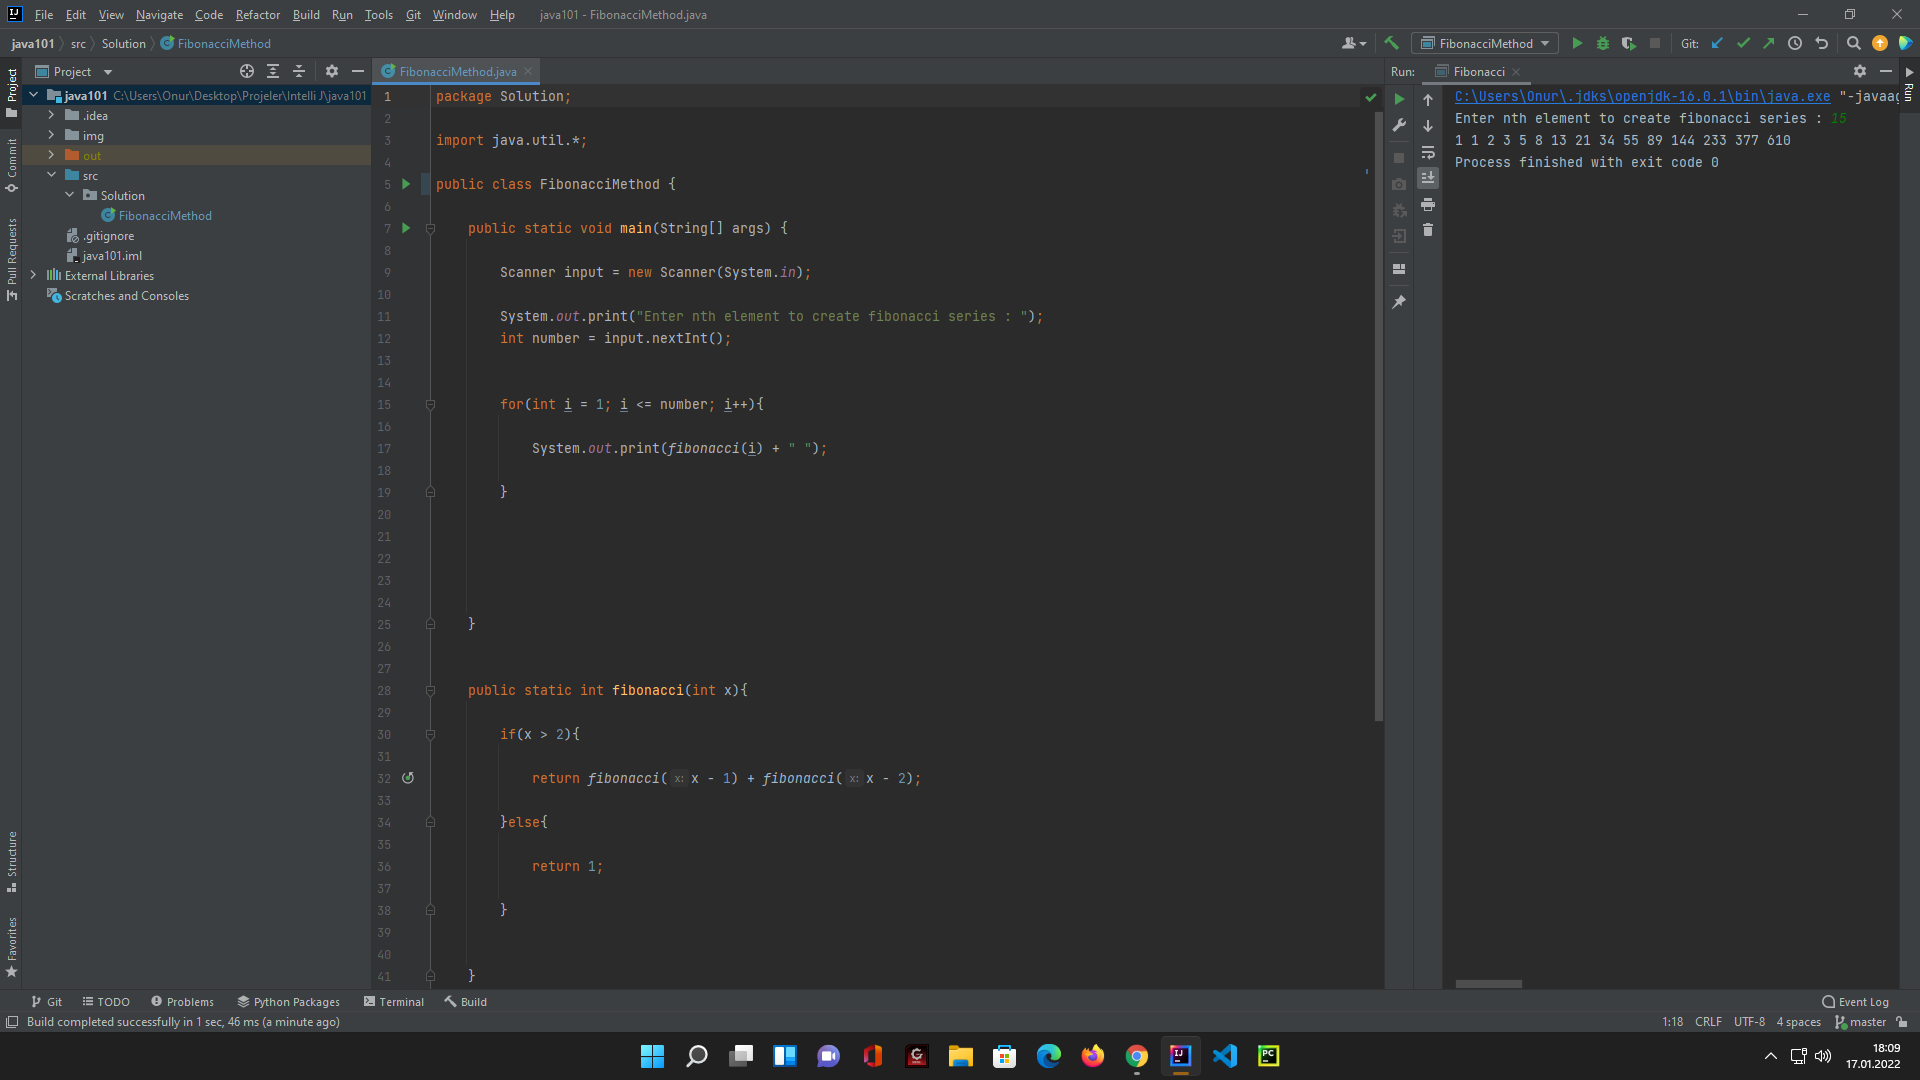
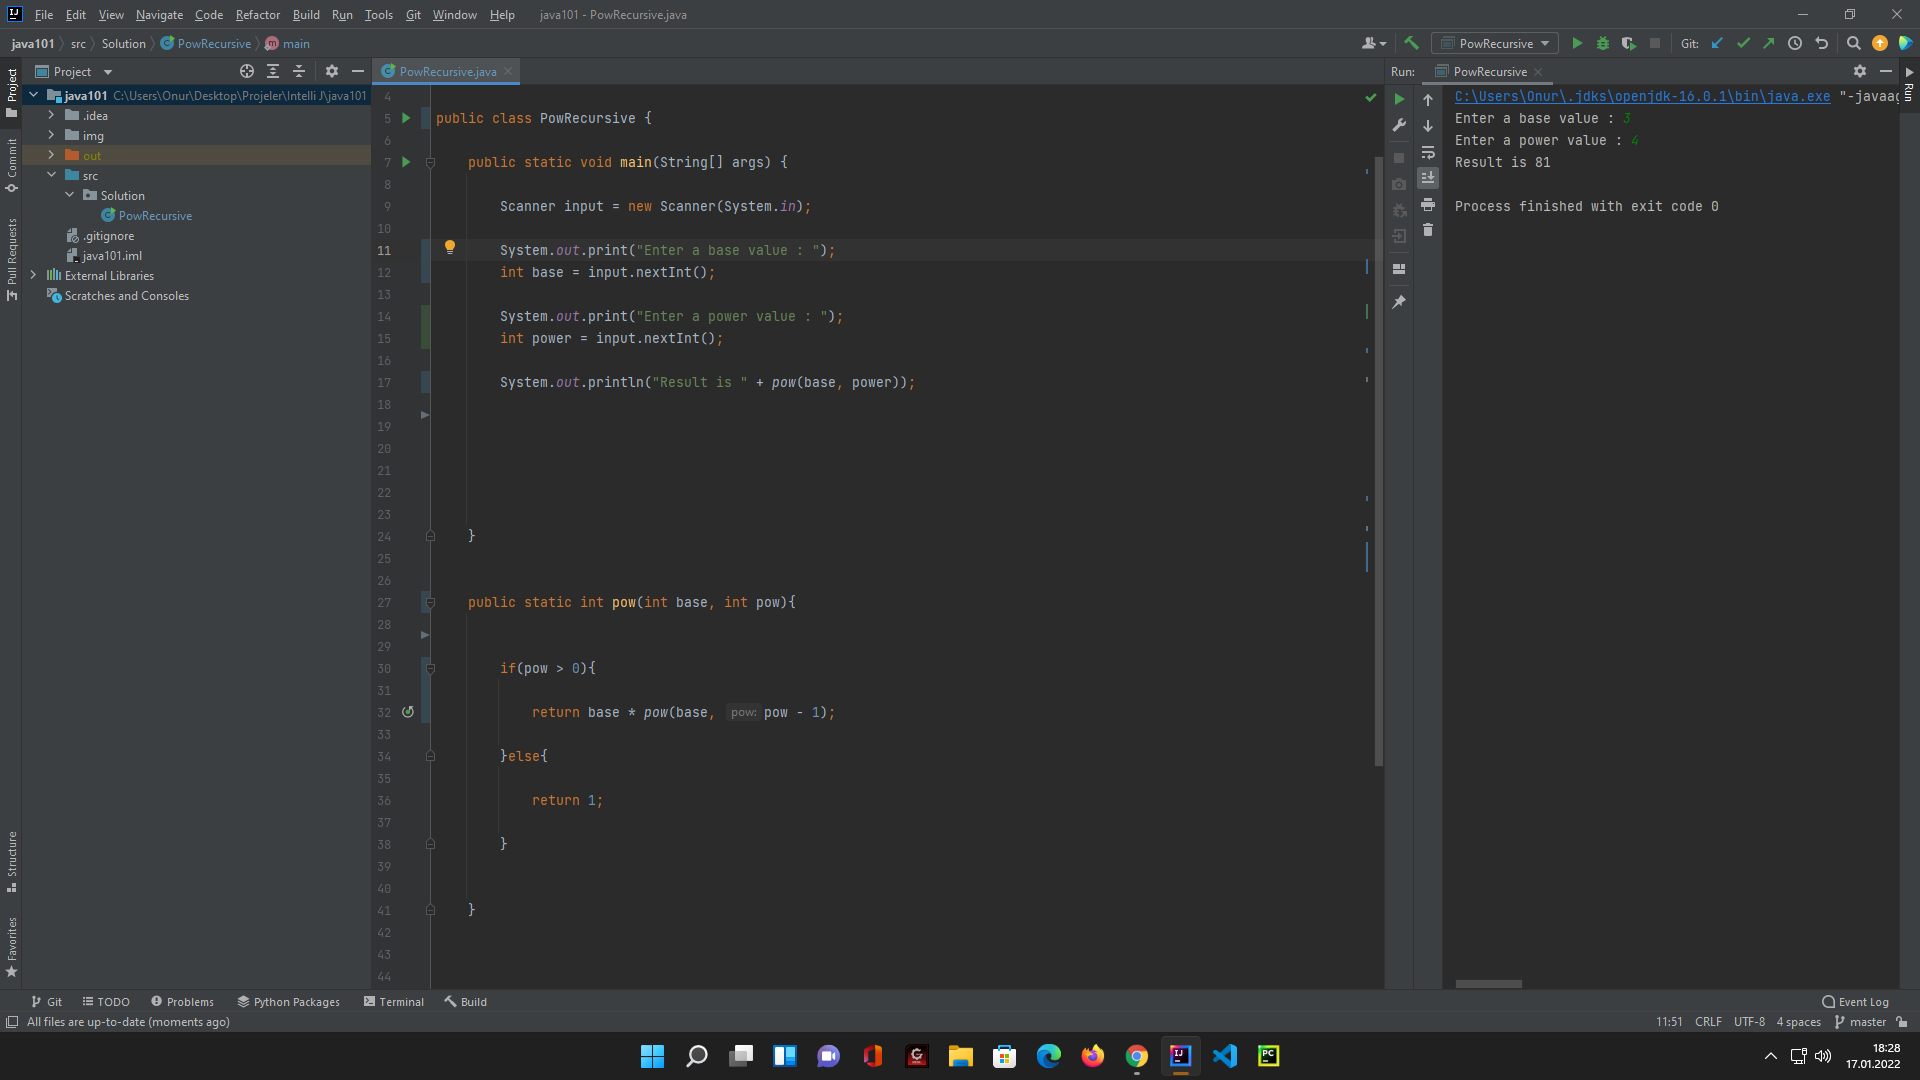
last

diff --git a/src/Solution/PowRecursive.java b/src/Solution/PowRecursive.java
@@ -1,0 +1,53 @@
+package Solution;
+
+import java.util.*;
+
+public class PowRecursive {
+
+    public static void main(String[] args) {
+
+        Scanner input = new Scanner(System.in);
+
+        System.out.print("Enter a base value : ");
+        int base = input.nextInt();
+
+        System.out.print("Enter a power value : ");
+        int power = input.nextInt();
+
+        System.out.println("Result is " + pow(base, power));
+
+
+
+
+
+
+    }
+
+
+    public static int pow(int base, int pow){
+
+
+        if(pow > 0){
+
+            return base * pow(base, pow - 1);
+
+        }else{
+
+            return 1;
+
+        }
+
+
+    }
+
+
+
+
+
+
+
+
+
+
+
+}
